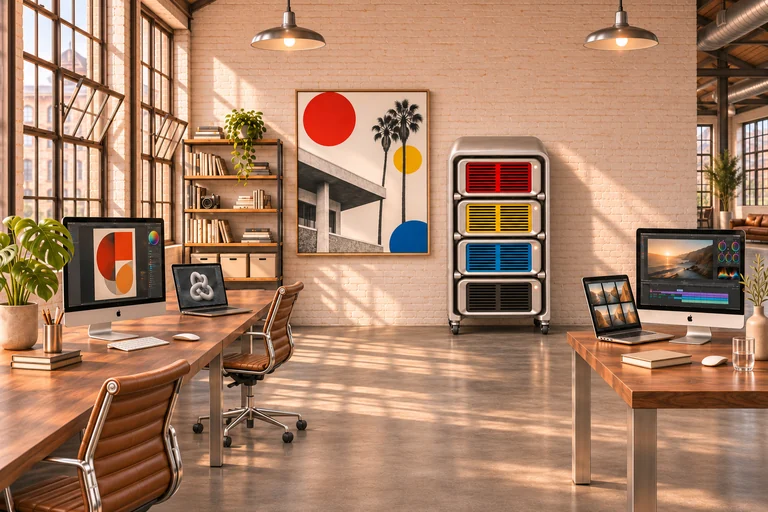
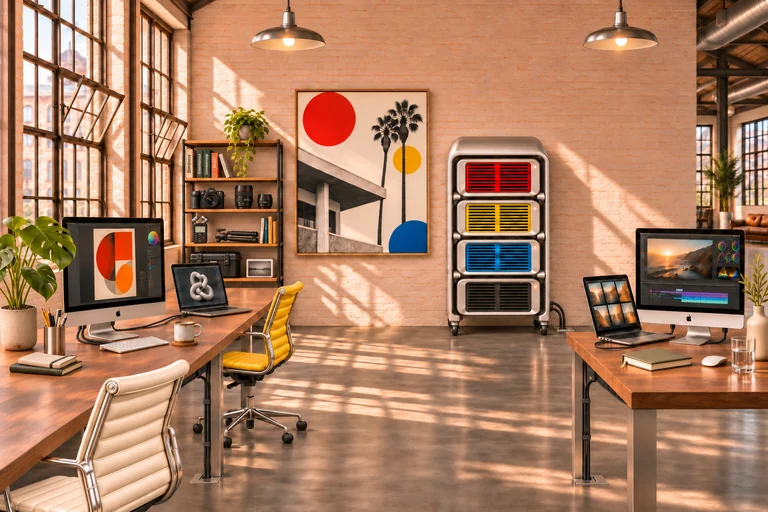
Refine studio equipment shelf, chair colours and floor cabling

diff --git a/docs/IMAGE-REFINEMENTS.md b/docs/IMAGE-REFINEMENTS.md
@@ -14,6 +14,30 @@ Use case: precise-object-edit. Edit target: the supplied Kiln One product render
 
 ## Warehouse studio
 
+### Working studio equipment shelf
+
+Replaces domestic fabric bins with a camera-equipment case, camera and lenses, audio recorder and folded tripod; keeps a small selection of varied books and the trailing plant.
+
+Use case: precise-object-edit. Edit the supplied approved photorealistic Kiln warehouse-office image. LOCALIZED EDIT ONLY to the narrow shelving unit in the back-left corner, between the window and the large framed artwork. Rethink its contents as a real professional creative studio equipment shelf, retaining its existing slim black steel frame, warm wood shelves, position, scale and perspective. Remove ALL three pale beige soft fabric storage cubes from the bottom shelf. Replace them with two realistically sized rigid professional camera-equipment cases: one black hard-shell camera case with credible hinges, clasps and handle, and one smaller dark graphite or silver aluminium equipment case. They must sit flat on the shelf, not float. Add practical varied creative tools on the middle shelves, such as a well-proportioned mirrorless camera body, two separate camera lenses with realistic barrel markings and lens glass, a compact audio field recorder and a folded small tabletop tripod. Keep the quantities restrained and believable, each item distinct and physically coherent. Retain a small selection of individual art/design/photography books with varied colours, heights and paper textures; reduce the number of books so this reads primarily as an equipment shelving unit, not a domestic bookcase. Retain the trailing green plant on top. Natural asymmetry, useful negative space, authentic material texture and contact shadows; no soft baskets, fabric bins or cushions. These details must look photographic, not generic repeated CGI props. Preserve EVERYTHING ELSE exactly: composition and camera framing, sunlight, white brick, desks and their realistic objects, white and yellow ribbed leather Herman Miller Aluminium Group chairs and polished frames, monitors/laptops and displayed creative work, framed coloured-circle architectural artwork, four coloured Kiln Atelier units in their rack at the back wall, and visible cables routed to recessed FLOOR connections. Do not introduce people or extra decorative brand shapes. Keep landscape 3:2.
+
+### Desk, shelf and cable realism
+
+Visible cable runs terminate at recessed floor connections. The shelf uses varied bindings, colours and sizes; desk and shelf objects receive a localized material/detail pass.
+
+Cable prompt:
+
+Use case: precise-object-edit. Edit target: the supplied approved Kiln warehouse office photograph with one warm-white Herman Miller chair and one yellow Herman Miller chair. Add realistic, neatly managed POWER AND DATA CABLING ONLY. Every workstation and the rack must appear physically connected. On the long left desk, show discreet dark grey power/data leads emerging behind the Mac-style monitor and laptop, gathering into a slim under-desk cable tray, then descending neatly alongside the rear brushed-metal desk leg in a narrow cable sleeve to a small recessed flush brushed-metal floor service box directly beside that leg. On the right desk, similarly show plausible rear leads behind the monitor and a small USB-C charging cable into the laptop, an under-desk cable tray and a tidy single cable bundle running down the inner/back desk leg to a second flush floor service box. At the Atelier rack against the back wall, show a short black power lead and dark grey Ethernet lead emerging discreetly from behind its lower right side, dropping close to the enclosure into a recessed floor connection immediately behind/beside the rack; use a small natural slack bend and physically credible shadows. All connections terminate IN THE FLOOR, not wall outlets. Make cable thickness believable, modest but visibly present; no cables across the aisle, no spaghetti, no huge conduit, no floating or disconnected cable ends, no oversized industrial outlets. Preserve the entire composition, rack geometry and colours, artwork, warehouse architecture, sunlight, furniture, white/yellow ribbed leather Herman Miller chair designs and chrome frames, and creative content on all displays. No people. This is a precise realism pass, not a redesign. Keep 3:2 landscape.
+
+Prop prompt:
+
+Use case: precise-object-edit. Edit target: supplied approved Kiln warehouse-office photograph. Make a localized PHOTOREALISM PASS on the BOOKSHELF CONTENTS and DESK OBJECTS, while preserving the exact composition, architecture, rack, painting, two white/yellow Herman Miller Aluminium Group chairs, sunlight, and computer screen content. The books on the back-left shelving must look like real individually manufactured design/art/photography books, not uniform beige CGI blocks. Vary spine colour naturally with an editorial mix of off-white, charcoal, navy, muted forest green, red-orange and an occasional yellow; vary heights, thicknesses, fabric/paper binding textures and spine typography. Include convincing small printed titles and publisher marks without illegible large gibberish; at this distance most fine lettering can be too small to read. Some upright volumes, a few slightly leaning, one or two horizontal stacks, visible page edges and honest tiny wear, no repeated duplicates. Retain tidy shelf spacing, camera and storage boxes, and give them realistic seams, lens glass, material textures, correct scale and natural contact shadows. Make desk objects look like photographed everyday creative-studio objects: distinct real notebooks with visible paper blocks and subtle cloth/card covers, a believable silver/white keyboard and mouse with correct shapes, wooden pencils and pens in brushed-metal cups, a ceramic mug with natural rim/glaze, and a transparent drinking glass with realistic refraction and water line. Make these discreet, not cluttered. Refine plant leaves and pots with natural slight variation and real soil where visible. Preserve object locations unless a tiny correction is necessary for physically credible contact and perspective. Cable runs remain down desk legs and from rack to recessed floor connections, but render them as realistic slender flexible insulated cables, not rigid plumbing pipes; no cables across the walking aisle. Avoid a game-engine or showroom CGI finish: believable microtexture, subtle imperfect edge wear, coherent depth-of-field, shadows and reflections, restrained photographic sharpness. Do not alter rack design, grille colours, white/yellow leather upholstery, artwork or the room arrangement. No people. 3:2 landscape.
+
+### White and yellow chair upholstery
+
+The two chairs retain the Herman Miller Aluminium Group form and polished frames. The foreground upholstery is warm white and the second chair is Kiln yellow.
+
+Use case: precise-object-edit. Edit target: the supplied approved Kiln warehouse office photograph. Change ONLY the leather upholstery colour of the two visible Herman Miller Aluminium Group chairs at the long wooden desk on the left. Make the large cropped foreground chair warm ivory-white leather, and make the second chair farther along that desk rich Kiln yellow leather (warm yellow close to #FFD34A). Preserve EXACTLY the existing classic Herman Miller Aluminium Group designs: slim polished aluminium perimeter frame and arms, horizontal ribbed leather upholstery, original back silhouette, swivel mechanism, five-star caster base, same proportions and positions. These are colour variants of the SAME chairs, not new chair designs. Preserve realistic leather texture, seams, highlights, shading and warm reflected sunlight. Change no other pixels or elements beyond the chair upholstery and naturally related reflected colour. Keep the same tighter architectural composition, long shared desk, warehouse windows, all computers and creative screen content, painting with coloured circles, and the four-unit Atelier rack naturally against the rear wall. Keep the rack scale, location, colours and hardware lights exactly as supplied. No people, no extra decorative motifs, no new objects. 3:2 landscape.
+
 ### Closer framing and shared desk
 
 Use case: precise-object-edit. Edit target: the supplied approved Kiln warehouse office photograph. This composition is approved; refine it modestly rather than redesigning the room. Move the camera closer / tighten framing by about 20 percent, showing less empty foreground floor and ceiling, so the Atelier rack is noticeably more legible while remaining NATURALLY AGAINST THE BACK WALL. Keep the rack's visual center around the golden-ratio line at 61.8% of the frame width and show it entirely, about 40% of frame height. Preserve accurate scale and a single coherent perspective. Let the left wooden workstation read as one longer open communal desk that recedes into the office with two positions and two leather Herman Miller Aluminium Group chairs; its front edge can run out of frame for a more candid close architectural crop. Keep some of the right desk and its working Mac display and laptop, even if the outer edge is cropped. Keep enough tall industrial windows, open floor aisle and rear wall to feel like a large airy creative warehouse office, not a small corner or product showroom. Same four-unit satin aluminium rack on casters, red/yellow/blue/black front grilles and small white status lights. Same original Baldessari-inspired architectural photo-collage with bold red/yellow/blue circles on the rear wall. Same rich warm timber, polished metal, cognac leather, sunlight, and monitors/laptops with visible creative work. No people, no new decorative square motif, no text overlay. Do NOT move the rack into the aisle or foreground. Polished but believable architectural photography, straight verticals, 3:2 landscape, protect the complete rack and painting within a square mobile crop at x61.8%.
